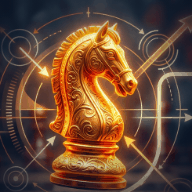
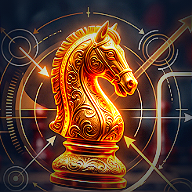
Version 0.2.107: App-Symbol knackiger
Warum: Auf dem Startbildschirm des Autors wirkte das goldene Springer-Symbol milchig. Mehr
Kontrast, etwas Sättigung (mehr kippte das Gold ins Orange-Rote) und leichte Schärfe, der
Rand fast deckend in Navy; die Symbole mit 180 und 192 Pixeln ohne Verkleinerung auf 256
Farben, weil deren Rauschen das Bild weich machte.

Claude-Session: https://claude.ai/code/session_01S7KSmSby2xS4HBeGXkrAmZ

diff --git a/docs/FORTSCHRITT.md b/docs/FORTSCHRITT.md
@@ -1,6 +1,6 @@
 # Fortschritt – Wiederaufsetzpunkt
 
-Stand: 19.10.2026 · **Version 0.2.106**, Farbabstimmung DS30 bis DS37 (Opus, Zweig `farbabstimmung`: Porträts ohne eingebauten Hintergrund, helles Navy im hellen Modus; Haken und Regler in App-Farben; Zahlkreise und Stufenmarken im Dunkeln mit Rand; Rahmen der Bedienelemente 3:1; App-Symbol aus dem goldenen Springer des Covers; vom Autor freigegeben; Nächstes: N483 bis N489); davor 0.2.105, kurze Partien zählen für die Wertung (Opus, Zweig `wertung-kurze-partien`: Die Elo-Wertung verlangt keine Schätzung des Gegners mehr, dessen Zahl seit 0.2.85 fest ist; seit 0.2.103 fielen schnelle Siege gegen Spaß-Bots sonst heraus; Nächstes: N584); davor 0.2.104, englische Fassung als Vorschau (Opus, Zweig `englisch`: en.json mit allen Texten außer 27 Buchzitaten, englische Notation überall, Zahlen und Daten nach der Sprache, Kürzel am Brett in der Sprachdatei, Buchdaten weiter deutsch; Nächstes: N409, Rückfragen EN1 bis EN3); davor 0.2.103, Spielstärke nur bis zur Entscheidung der Partie (Opus, Zweig `genauigkeit-bis-entscheidung`, Wunsch des Autors: Züge nach dem Punkt, ab dem eine Seite dauerhaft mindestens 90 % Gewinnchance hat, zählen nicht mehr für Spielstärke und Urteilswort; Kurven Genauigkeit → Spielstärke an 600 neu gesammelten Partien neu geeicht, Bot-Zahlen über die Anker um 212 tiefer, Bots selbst unverändert; Nächstes: N580 bis N583; GE1 vom Autor mit „so lassen“ entschieden); davor 0.2.102, Uhr beim Verlassen sofort gesichert (Opus, Zweig `uhr-sichern`, N180: angehaltener Uhrstand zusätzlich synchron im Gerätespeicher, weil ein Neuladen das Schreiben in IndexedDB abbricht; Nächstes: englische Fassung, Zweig `englisch`); davor 0.2.101, Symbolsprache DS19 bis DS29 (Opus, Zweig `symbolsprache`: Stufenmarken in Gürtelfarben, ein Aufklappzeichen, Pfeil für Weiter, Zeichen an Knöpfen und Überschriften, Ergebnismarke, Phasenzeichen, Fortschritt an der Kapitelnummer, Werkzeugzeichen, Glossar nach Buchstaben; vom Autor freigegeben; Nächstes: N475 bis N482); davor 0.2.100, Porträtwahl mit Vorschaubildern (Opus, Zweig `portraet-bildauswahl`: Aufklappmenü mit allen 30 Porträts nach Altersgruppen statt Auswahlmenü ohne Bilder; Nächstes: N469); davor 0.2.99, Wünsche des Autors vom 19.10.2026 morgens (Opus, Zweig `spielen-sammlung-nachschlagen`: Spielhilfen über „Partie beginnen“, Porträts für eigene Bots, Stern für besiegte Bots, Partienliste mit Porträt, Filter und Löschen, Zeichen für Warum-Fragen in der Kapitelübersicht mit Fortschritt, Nachschlagen mit Steckbriefen und Werkzeugen; Nächstes: N468 bis N474); davor 0.2.98, Design-Überprüfung (Opus, Zweig `design-ueberarbeitung`: alle 18 Vorschläge DS1 bis DS18 vom Autor angenommen, Schrift folgt dem Gerät, Querformat und Tablet mit Brett links, beschriftete Brettsymbole, Tippflächen 44 px; Nächstes: N450 bis N467); davor 0.2.97, Datenlauf mit dem Buchstand vom 17.10.2026 (`schachbuch-quellen` 931597a; Opus, Zweig `buchstand-neu`: an allen 765 Abbildungen Stellung, Pfeile, Felder, Unterschrift und Nummern unverändert; geändert nur die Literaturnummern in vier Glossareinträgen ([12]→[14], [10]→[11], [13]→[15], [14]→[16]), Zeilenangaben der Fundstellen und die Prüfsummen, die seit dem Nachtrag der Klartextzüge (0.2.94) nicht neu gerechnet waren; Nächstes: Rückmeldung des Autors); davor 0.2.96, konstruierte Zugfolgen und Tablebase (Opus, Zweig `zugfolgen-konstruiert`: 29 Partien ab der Grundstellung zu Abbildungen ohne Zugfolge, Status „konstruiert“ mit Hinweis in der App, Einordnung aller 67 in `inhalte/de/konstruktion.json`, Tablebase-Prüfung der Endspiele; Nächstes: Rückfragen ZF1 bis ZF4, Abb. 7.24 offen); davor 0.2.95, Befunde aus dem Durchprüfen der Aufgabenliste behoben: „Zurück zu den Aufgaben“ führt wieder zum Punkt, Pfeil und Figur bei Hinweis 2 und 3 im Endspieltrainer, „..“ nach „Warum?“, Uhranzeige nach dem Hintergrund, Einzahl, Abbildung beim Zug ausführen, kein Satz über Enginefehler bei Partien zu zweit (Opus, Zweig `aufgaben-zurueck`; Aufgabenliste entlastet auf Zweig `claude/aufgabenliste-entlasten-6y3tgp`); davor 0.2.94 Technik für die englische Fassung (Chat E, Opus, Zweig `sprache-technik`: Sprachwahl nach Gerät, `<html lang>`, Buchdaten je Sprache, Lizenztexte in de.json, Klartextzüge der Unterschriften in der Pipeline); davor 0.2.93 Lernsammlung (Chat E, Opus, Zweig `lernsammlung`: eigene Stellungen mit Plan und Notiz aus Abbildung, Partie und Trainer, nach Eröffnung geordnet, Abfrage, PGN für Lichess-Studien, Nutzerdaten Format 5); davor 0.2.92 Ziehen per Wischen (Chat E, Opus, Zweig `ziehen-wischen`: Figuren mit Finger oder Maus ziehen, nur auf ziehbaren Figuren, abschaltbar in den Einstellungen); davor 0.2.91 Endspiel-Kurzübungen (Quadrat, Opposition, Schlüsselfelder, Erkennungsbild-Quiz; `training/endspieldrills.ts`, `ui/trainer/Drillaufgabe.tsx`), Referenzergebnisse aller Werkzeuge (`src/analyse/__referenz__/werkzeuge.txt`), `speicher/partienLesen.ts` abgetrennt (Opus, Chat A, Zweig `nacht-stabilitaet`; Nächstes: Rückmeldung des Autors zu N400 bis N408 und NA1); davor 0.2.90 Nachtarbeit Chat A (Opus, Zweig `nacht-stabilitaet`: Engine-Tests mit fester Tiefe 16, axe auf Spielen/Partie/Auswertung/Trainern/Dunkelmodus, 360 px, `/training/*` ohne Zwischenspeicher; Uhr 10+0 im 30-Minuten-Plan; Gewinnchance im Zugurteil und in der Falle; Gabel mit Figurennamen; Sicherung teilen; Kontrast am Bewertungsbalken; „Erst selbst denken“ auch vor Werkzeugen (Einstellung, Voreinstellung aus, NA1); Wiederholung für Struktur und Endspiel; Trefferzahl bei Zug erraten und Planstand in den Nutzerdaten); davor 0.2.89 gleich große Kacheln in der Gegnerwahl (Opus, Zweig `kacheln-gleich`: Spalten minmax(0, 1fr), Namen brechen um; Nächstes wie bei 0.2.88); davor 0.2.88 Spaß-Bots und Zahlen über 2200 (Opus, Zweig `spass-bots`: Gruppe „Zum Spaß“ mit Fritzi, Onkel Willi, Tante Trude, Bruno, etwa 600 bis 1100, Zufallszüge 60/38/25/15 %; Stufe 5 bis 8 mit der Zahl der Elo-Leiter statt „über 2200“; Nächstes: N335 des Autors, dann S24 Namen der Stufen); davor 0.2.87 Rückmeldung zu 0.2.86 (Opus, Zweig `rueckmeldung-0.2.86`: „Genauigkeit wie“ nur in der Auswertung als Segmentleiste mit Fragezeichen, „App“ statt „Mittelweg“, Tabellen ohne Überlauf, Trainer-Knopf als Symbol, Holz und Material eine Gruppe; Nächstes: Rückmeldung zu N336 bis N346); davor 0.2.86, Auswertung, Werkzeuge und Training übersichtlicher (Opus, Zweig `auswertung-ausbau`: Gewinnchance statt Bauern im Rückblick, „schlägt nicht zurück“, Nebenzweige „Besser war“ und „So wird der Fehler bestraft“, Engine-Wachhund gegen hängende Auswertung, Symbole und Genauigkeitsschalter in der Auswertung, Werkzeugkarten ohne „Mehr“, Werkzeugleiste scrollbar mit Symbolen, Partie-beginnen oben, Bot-Stufen aufklappbar, Trainingsseite mit Symbolen; Nächstes: Rückmeldung des Autors zu N336 bis N343); davor 0.2.85, Elo-Zahl der Bots (Opus, Zweig `bot-elo`, S23: Elo-Leiter aus 806 Partien, verankert an Stufe 1 bis 3 gegen sich selbst über „Deine Spielstärke“, Anker ab 83 % Genauigkeit gesättigt; Bereich je Stufe, Zahl je Bot, „über 2200“ als Grenze, feste Gegnerwertung in der Elo-Wertung; Stufe 3 schwächer, weil sie Stufe 4 ebenbürtig war; Nächstes: Test N335 des Autors abwarten, dann S24 Stufen 1 bis 4 schwächer und alle Bots neu messen); davor 0.2.84 neue Bretter nach der Auswahl des Autors (Opus, Zweig `bretter`: Farben Braun, Blau, Sand, Koralle, Lavendel, Nacht; „Holz“ heißt jetzt „Ahorn & Nussbaum“; Materialbretter Intarsie, Holz klassisch, Marmor grün von Lichess unter AGPL; goldener Rahmen der gewählten Kachel im Dunkelmodus; Nächstes: S23 Elo je Bot-Stufe nach Rücksprache mit dem anderen Chat); davor 0.2.83 Genauigkeit und Spielstärke neu geeicht und eingebaut (Opus, Zweig `eichung`: je 300 Partien von chess.com und Lichess mit Tiefe 18 nachgerechnet; Schalter „Genauigkeit wie“ Lichess/Mittelweg/nahe chess.com, Spielstärke als Mitte zweier Kurven mit Spanne, Karte „Deine Spielstärke“ über zehn Partien, Auswertung mit Tiefe 18; Nächstes: S23 Elo je Bot-Stufe, sobald die Bot-Messung Züge speichert); davor 0.2.82 Rückmeldung zu 0.2.80 (blinde Flecken bei eigener Stufe, Abschnitte eingeklappt mit Pfeil, Reiter nur waagerecht, Engine als Symbol am Brett) und neun neue Figurensätze aus der Auswahl des Autors (Opus, Zweig `layout-nachtrag`; Nächstes: Eichung Punkt 6, Bericht zu Schritt c an den Autor); davor 0.2.81 alle 64 Bots mit korrigiertem Stil gemessen und eingestellt (Opus, Zweig `werkzeuge-textarbeit`: Regeln gegen endloses Nachjustieren, zwei Stichproben je Grenzfall, höchstens eine Anpassung je Bot, ab Stufe 5 Vergleich mit der Stufe darunter; elf Bots gegenüber 0.2.67 geändert, Ergebnis in ENTSCHEIDUNGEN „Messung aller 64 Bots“; Saat-Verschiebung `MESSUNG_SAAT_AB` für zweite Stichproben); davor 0.2.80 Layout nach dem Wunsch des Autors: Einstellungen mit Reitern, Vorschau, Ringen und Erklärungen hinter Fragezeichen; Kapitelseiten mit „Training und Übungen“ in einer Karte, Abhaken über der Galerie und aufklappbaren Abschnitten; Spielen mit drei Gegnerkategorien und Engine-Knopf in der Partie statt der Hinweise; absichtliche Fehler nur für die eigene Stufe (S22) (Opus, Zweig `layout-einstellungen`; Nächstes: Eichung Punkt 6 weiter); davor 0.2.79 Plan „Genauigkeit und Spielstärke neu eichen“ festgehalten (Opus, Nächster Schritt Punkt 6); davor 0.2.78 Stil-Fehler behoben: Der Stil wählte nahe am besten Zug der Engine statt am Zug der Stufe, Bots mit Stil waren dadurch in den Stufen 1 bis 4 fast so stark wie die Engine; jetzt Bezug auf den Zug der Stufe, Anpassungen gegen „zu stark“ aus 0.2.74 bis 0.2.76 zurückgenommen (Opus, Zweig `werkzeuge-textarbeit`; Nächstes: 53 Bots mit korrigiertem Stil neu messen, Liste in `buch/arbeit` bzw. ENTSCHEIDUNGEN „Messung aller 64 Bots“, Ausreißer anpassen); davor 0.2.77 Messfehler behoben: Paarungen wurden am ersten Bindestrich getrennt, 25 Bots mit Bindestrich waren falsch gemessen; Frau Berger und Frau Ortega zurückgenommen, Yara mit Fleck „ruhig“ (Opus, Zweig `werkzeuge-textarbeit`; Nächstes: die 25 Bots neu messen, Ergebnis in ENTSCHEIDUNGEN „Ergebnis der Messung aller 64 Bots“ nachtragen, Ausreißer anpassen); davor 0.2.76 Bot-Messung Stufen 1 bis 6: Greta, Paul, Hanna und Elif nachgebessert, Leon, Ayşe und Sophie bleiben als Stärkste ihrer Stufe (verlieren gegen die nächsthöhere; benachbarte reine Stufen trennen 10 : 0) (Opus, Zweig `werkzeuge-textarbeit`; Nächstes: Matteo, Ben und die Stufen 7 und 8 messen, Ergebnis in ENTSCHEIDUNGEN „Ergebnis der Messung aller 64 Bots“ nachtragen, Ausreißer anpassen); davor 0.2.75 Aufgabenseite in der App (Opus, Zweig `autor-aufgaben`: `docs/AUFGABEN_AUTOR.md` als Seite nach drei Sekunden Druck aufs Zahnrad, Links, Haken, Notizen, Text für den Chat); davor 0.2.74 Messung aller 64 Bots, Stufen 1 bis 5 vollständig: zwölf zu starke und vier zu schwache Bots über Phasenstufe und teure Fehlerart angepasst (Fable, Zweig `werkzeuge-textarbeit`; Stufen 6 bis 8 laufen noch, Nächstes: deren Ergebnis auswerten und in ENTSCHEIDUNGEN nachtragen); davor 0.2.73 Lichess-Aufgaben im Training geprüft (angeschlossen), Lizenzen ergänzt, X5 nach Regel 9 (Opus, Zweig `lichess-lizenzen`); davor 0.2.72 Spielbewertung an sieben chess.com-Partien des Autors geeicht (Fable, Zweig `werkzeuge-textarbeit`: neue Stützstellen Genauigkeit → Spielstärke, etwa 500 Punkte tiefer, Abweichung zu chess.com im Mittel 0; Urteilswort je Phase als farbige Marke; Mittelspiel nach Taktik und Strategie getrennt, Regel des Sicherheitsblicks; Messlauf `messen:vergleich`); davor 0.2.71 30-Minuten-Plan (Opus, Zweig `dreissig-minuten`, AP 13 Stufe 3: geführte Einheit mit Uhr, Tag A und B im Wechsel, Bereiche des Studientags; damit alle Trainer spielbar); davor 0.2.70 Abweichungsmodus (Opus, Zweig `abweichung`, AP 13 Stufe 3: die Engine verlässt das Buch, der Leser antwortet, Bewertung und Einschätzung); davor 0.2.69 Planbilanz-Übung (Opus, Zweig `planbilanz`, AP 13 Stufe 3: Planfragen mit Antwortauswahl, LAP, Wettrennen); davor 0.2.68 Werkzeugabweichungen aus der Textarbeit geprüft (Fable, Zweig `werkzeuge-textarbeit`: neun von zwölf Gruppen waren erledigt, Isolani-Besitzer in der Richtung und Sonderfall 6. Reihe aus Verteidigersicht umgesetzt, Zeit-Zählhilfe als Buchbefund B6); davor 0.2.67 64 Gegner mit Porträts (Fable, Zweig `bots-galerie`: acht Bots je Stufe mit Stil, Fehlerliste und blinden Flecken, Porträts aus DiceBear „Personas“, Gegnerwahl als Porträtgitter mit Sprechblase, Messung je Bot); davor 0.2.66 Denkroutine-Trainer (Opus, Zweig `denkroutine`, AP 13 Stufe 3: eine Minute, zwei Kandidaten mit stärkster Antwort, Vergleich mit der Engine); davor 0.2.65 Fehlerdatenbank (Opus, Zweig `fehlerdatenbank`, AP 13 Stufe 3: Einträge mit Stellung, Satz und Fehlerart der Gesamt-Checkliste, Auswertung je Woche, Trainer-Vorschlag, Knopf im Rückblick; Nutzerdaten Format 4); davor 0.2.64 Leerfälle der Werkzeugkarten (Opus, Zweig `leerfaelle`, U12: ein Satz statt leerer Befunde, kein doppelter Satz; Schicht `ui/werkzeuge/leerfall.ts`); davor 0.2.63 Datenschutz: E-Mail-Weiterleitung an goneo (Opus); davor 0.2.62 Impressum und Datenschutz mit den Angaben des Autors (E1, E2 erledigt); davor 0.2.61 Rückmeldung des Autors zu 0.2.56 (Opus, Zweig `rueckmeldung-0.2.56`: S9 gewertete Partie ohne Rücknahme und Spielhilfen, S12 nur Stellungen mit möglichen Umwandlungen (Stockfish beendet sich sonst), S13 Stil-Toleranz 0,3 mit Hinweis, S17 Phase der Buchstellungen nach dem Glossar mit „rochiert haben“ aus den Buchzügen, U5 Sonderzüge an Abb. 0.12 bis 0.19, W5 Strukturerkenner mit starken Feldern zuerst, W9 Urteil der Faktorenbilanz des Buches, W10 Warum-Fragen im Repertoire-Trainer, W12 Engine-Vergleich beim Zugerraten; X, S, R, W und U bis auf X5 und U12 erledigt; Befund D2 Glossar gegen Steckbriefe); davor 0.2.60 Abhakliste der Fehlerarten (Fable, Zweig `fehlerarten-abhakliste`, Rest aus S7: Karte „Absichtliche Fehler der Engine“ in den Einstellungen, Vorliebe `erlaubteFehlerarten`, Schnitt mit der Liste der vorgefertigten Gegner beim Anlegen einer Partie); davor 0.2.59 Brillant zweiter Schritt (Fable, Zweig `brillant-annehmbar`: Opfer nur, wenn der Gegner die Figur legal nehmen kann; gezogene Figur zählt auch schon angegriffen; Opfererkennung in `engine/opfer.ts`; Prüfstand 59 von 100 bei 19 Fehlalarmen); davor 0.2.58 Anmerkungen des Autors vom Abend (Fable, Zweig `oberflaeche-toene`: Töne für Schach, Matt, Remis und Warnung; roter Hinweis und Satz bei gesperrter Figur; Schlagring statt Punkt; Figurensatz „Holz“ jetzt Merida; Stern für gewertete Partien); davor 0.2.57 blinde Flecken vollständig (Fable, Zweig `blinde-flecken-2`: Röntgen, Zwischenzug, Grundreihe; Blindheit auch gegenüber gegnerischen Zügen dieser Art; Messung mit allen Flecken); davor 0.2.56 Engine-Variante im Rückblick (Fable, Zweig `rueckblick-variante`, Empfehlung R5: Hauptvariante je Stellung gespeichert, Rückblickkarte „Danach etwa …“); davor 0.2.55 Nachlesen im Buch zu allen Rückfragen (Opus: X1 9.23/9.41, X2 9.42, X4, C1, C2, C5, T1, U6, W6/T5, W11, E3 umgesetzt; S17, C3, W5, U5, D1 beim Autor); davor 0.2.54 Brillant am Prüfstand von chess.com (Fable, Zweig `opfer-pruefstand`: Opfer ab Netto 1, nur die gezogene Figur darf vorher schon angegriffen sein, brillant nur bei gutem Stand danach, nicht aus dem Schach, zweitbester nicht ohnehin gewinnend; 100 Brillant-Züge aus chess.com-Partien als lokaler Prüfstand); davor 0.2.53 Studien lösen und Zug erraten (Opus, AP 13 Stufe 3: Zugfolgen aus Kapitel 10 und 11, Rückfragen W11, W12); davor 0.2.52 Stufen 1 bis 3 menschlicher (Fable, Zweig `stufen-menschlich`, Empfehlung R4: Tiefengrenze statt Skill Level 0, gewichtete Zugwahl mit Temperatur, Fehlerneigung nach Lage, Strähne und Tagesform; Stufen neu gemessen); davor 0.2.51 Vergleich mit chess.com an drei Partien (Fable: Abtausch ist kein Opfer mehr, „stark“ nur vor klarem Gewinn, S18 Spielstärke aus der Genauigkeit, T4 Fallen aus Kapitel 2 und 3, in entschiedener Stellung „?!“ erst ab drei Bauern und kein „!“, 2 s Rechenzeit während der Partie; neue Regel 9 in CLAUDE.md: Empfehlungen gleich umsetzen); davor 0.2.50 Genauigkeit wie bei chess.com (Fable, Zweig `auswertung-chesscom`: Genauigkeit wie bei Lichess aus gewichtetem und harmonischem Mittel, „verpasst“ vor „patzer“, „bester“ nur der Zug der Engine, Platzhalter in der Zeile „Zeichen“ behoben; Rechentiefe war nicht die Ursache); davor 0.2.49 Endspieltrainer (Fable, Zweig `endspieltrainer`: 78 Buchstellungen aus Kapitel 8 und 9 mit Stockfish geprüft, gegen die Engine gewinnen oder Remis halten, Kippen erkannt, gestufte Hilfen); davor 0.2.48 Zielbilanz-Übung, Faktorenbilanz- und Repertoire-Trainer (Opus, AP 13, Buchstellungen und Zugfolgen der Kapitel 2 und 3, Lösung aus den Werkzeugen und dem Buch); davor 0.2.47 Empfehlungen vorab umgesetzt (Opus: S9 Rücknahme ungewertet, K5 kein „??“ bei klarem Gewinn, R3 „Geschätzte Spielstärke“, C8 kein Minderheitsangriff gegen vorgerückten Kandidaten, T1 gleich gute Engine-Züge in vier Übungen, U9 Wiederholung für Taktik und Falle; Widerspruch des Autors genügt); davor 0.2.46 Bots mit Persönlichkeit (Fable: blinde Flecken als Zugarten, die ein Gegner nicht sieht; 18 vorgefertigte Gegner mit eigener Fehlerliste und blinden Flecken; Stufen je Phase verborgen; blinde Flecken auch für eigene Gegner); davor 0.2.45 AP 13 Teil 3 (Opus): Taktiktrainer, „Falle oder Köder“ und Strukturerkenner auf Fables Trainerdaten, Hinweis „Nur dieser Zug“ bei Übungen, Empfehlungen zu allen offenen Rückfragen in `docs/AUFGABEN_AUTOR.md`; davor Lesart der Phase: Mittelspiel, sobald eine Seite entwickelt ist oder das Material ungleich ist; „Bauern entscheiden“ nur bei Freibauer oder wenig Material; Erklärung am Phasenwechsel im Rückblick (Befund S17: Abb. 11.4); davor 0.2.43 „M“ und „E“ in der Zugliste, Zusatzregel „Zug 15“ gestrichen; davor 0.2.42 Ergänzungen des Autors vom Abend (Fable: Wertung nur aus der Grundstellung, Wertung zurücksetzen, eigene Gegner mit Fehlerarten und Spielstil, Wertungskurve je Phase); davor 0.2.41 Spielen nach den Wünschen des Autors vom Nachmittag (Fable: zwölf vorgefertigte Gegner, Mensch gegen Mensch, Spielhilfen zuschaltbar, Partienkachel mit Ergebnis und Stärke beider Seiten, Wertung nach Elo mit Kurve in den Einstellungen, Zusatzregeln für die Phase, Stellungseditor); davor 0.2.40 Spielen nach den Ideen des Autors (Fable: Zugklassen wie bei chess.com, Phasen in Kurve und Spielstärke, Auswertung im Hintergrund, Stufe je Phase, Fehlerprofile je Phase); davor 0.2.39 Rückmeldung zum Nachtest bis N174 (Fable, Zweig `rueckmeldung-0.2.39`: Figurensätze, Nummernsprung, Werkzeugtexte, Rückblick-Karte mit Erklärung, „!“, Spielstärke, Eröffnung wählen) und die Trainerdaten (Fable, Zweig `trainerdaten`, zusammengeführt); davor 0.2.38 H Rückblick nach der Partie (Zweig `rueckblick`); 0.2.37 AP 13 Teil 1 und 2: Übungen des Buches lösen, Wiederholung, erste Trainer (Opus, Zweig `nacht-ap13`; davor 0.2.36 AP 11 Kalibrierung (Fable), 0.2.35 neuer Buchstand, 0.2.34 erster Stand im öffentlichen Repository `dobili/SvGa_Public`) · Nächstes: Nachtest N182 bis N200, Rückfragen U1 bis U11 in `docs/AUFGABEN_AUTOR.md`; Trainerdaten von Fable zusammenführen · Die ganze ältere Arbeitsgeschichte (Prüfhilfen, Berichte, Archiv) liegt im früheren privaten Repository des Autors
+Stand: 19.10.2026 · **Version 0.2.107**, App-Symbol knackiger (Opus, Zweig `symbol-knackig`: mehr Kontrast, etwas Sättigung und Schärfe, dunklerer Rand, 180 und 192 Pixel in voller Farbtiefe; Nächstes: N490); davor 0.2.106, Farbabstimmung DS30 bis DS37 (Opus, Zweig `farbabstimmung`: Porträts ohne eingebauten Hintergrund, helles Navy im hellen Modus; Haken und Regler in App-Farben; Zahlkreise und Stufenmarken im Dunkeln mit Rand; Rahmen der Bedienelemente 3:1; App-Symbol aus dem goldenen Springer des Covers; vom Autor freigegeben; Nächstes: N483 bis N489); davor 0.2.105, kurze Partien zählen für die Wertung (Opus, Zweig `wertung-kurze-partien`: Die Elo-Wertung verlangt keine Schätzung des Gegners mehr, dessen Zahl seit 0.2.85 fest ist; seit 0.2.103 fielen schnelle Siege gegen Spaß-Bots sonst heraus; Nächstes: N584); davor 0.2.104, englische Fassung als Vorschau (Opus, Zweig `englisch`: en.json mit allen Texten außer 27 Buchzitaten, englische Notation überall, Zahlen und Daten nach der Sprache, Kürzel am Brett in der Sprachdatei, Buchdaten weiter deutsch; Nächstes: N409, Rückfragen EN1 bis EN3); davor 0.2.103, Spielstärke nur bis zur Entscheidung der Partie (Opus, Zweig `genauigkeit-bis-entscheidung`, Wunsch des Autors: Züge nach dem Punkt, ab dem eine Seite dauerhaft mindestens 90 % Gewinnchance hat, zählen nicht mehr für Spielstärke und Urteilswort; Kurven Genauigkeit → Spielstärke an 600 neu gesammelten Partien neu geeicht, Bot-Zahlen über die Anker um 212 tiefer, Bots selbst unverändert; Nächstes: N580 bis N583; GE1 vom Autor mit „so lassen“ entschieden); davor 0.2.102, Uhr beim Verlassen sofort gesichert (Opus, Zweig `uhr-sichern`, N180: angehaltener Uhrstand zusätzlich synchron im Gerätespeicher, weil ein Neuladen das Schreiben in IndexedDB abbricht; Nächstes: englische Fassung, Zweig `englisch`); davor 0.2.101, Symbolsprache DS19 bis DS29 (Opus, Zweig `symbolsprache`: Stufenmarken in Gürtelfarben, ein Aufklappzeichen, Pfeil für Weiter, Zeichen an Knöpfen und Überschriften, Ergebnismarke, Phasenzeichen, Fortschritt an der Kapitelnummer, Werkzeugzeichen, Glossar nach Buchstaben; vom Autor freigegeben; Nächstes: N475 bis N482); davor 0.2.100, Porträtwahl mit Vorschaubildern (Opus, Zweig `portraet-bildauswahl`: Aufklappmenü mit allen 30 Porträts nach Altersgruppen statt Auswahlmenü ohne Bilder; Nächstes: N469); davor 0.2.99, Wünsche des Autors vom 19.10.2026 morgens (Opus, Zweig `spielen-sammlung-nachschlagen`: Spielhilfen über „Partie beginnen“, Porträts für eigene Bots, Stern für besiegte Bots, Partienliste mit Porträt, Filter und Löschen, Zeichen für Warum-Fragen in der Kapitelübersicht mit Fortschritt, Nachschlagen mit Steckbriefen und Werkzeugen; Nächstes: N468 bis N474); davor 0.2.98, Design-Überprüfung (Opus, Zweig `design-ueberarbeitung`: alle 18 Vorschläge DS1 bis DS18 vom Autor angenommen, Schrift folgt dem Gerät, Querformat und Tablet mit Brett links, beschriftete Brettsymbole, Tippflächen 44 px; Nächstes: N450 bis N467); davor 0.2.97, Datenlauf mit dem Buchstand vom 17.10.2026 (`schachbuch-quellen` 931597a; Opus, Zweig `buchstand-neu`: an allen 765 Abbildungen Stellung, Pfeile, Felder, Unterschrift und Nummern unverändert; geändert nur die Literaturnummern in vier Glossareinträgen ([12]→[14], [10]→[11], [13]→[15], [14]→[16]), Zeilenangaben der Fundstellen und die Prüfsummen, die seit dem Nachtrag der Klartextzüge (0.2.94) nicht neu gerechnet waren; Nächstes: Rückmeldung des Autors); davor 0.2.96, konstruierte Zugfolgen und Tablebase (Opus, Zweig `zugfolgen-konstruiert`: 29 Partien ab der Grundstellung zu Abbildungen ohne Zugfolge, Status „konstruiert“ mit Hinweis in der App, Einordnung aller 67 in `inhalte/de/konstruktion.json`, Tablebase-Prüfung der Endspiele; Nächstes: Rückfragen ZF1 bis ZF4, Abb. 7.24 offen); davor 0.2.95, Befunde aus dem Durchprüfen der Aufgabenliste behoben: „Zurück zu den Aufgaben“ führt wieder zum Punkt, Pfeil und Figur bei Hinweis 2 und 3 im Endspieltrainer, „..“ nach „Warum?“, Uhranzeige nach dem Hintergrund, Einzahl, Abbildung beim Zug ausführen, kein Satz über Enginefehler bei Partien zu zweit (Opus, Zweig `aufgaben-zurueck`; Aufgabenliste entlastet auf Zweig `claude/aufgabenliste-entlasten-6y3tgp`); davor 0.2.94 Technik für die englische Fassung (Chat E, Opus, Zweig `sprache-technik`: Sprachwahl nach Gerät, `<html lang>`, Buchdaten je Sprache, Lizenztexte in de.json, Klartextzüge der Unterschriften in der Pipeline); davor 0.2.93 Lernsammlung (Chat E, Opus, Zweig `lernsammlung`: eigene Stellungen mit Plan und Notiz aus Abbildung, Partie und Trainer, nach Eröffnung geordnet, Abfrage, PGN für Lichess-Studien, Nutzerdaten Format 5); davor 0.2.92 Ziehen per Wischen (Chat E, Opus, Zweig `ziehen-wischen`: Figuren mit Finger oder Maus ziehen, nur auf ziehbaren Figuren, abschaltbar in den Einstellungen); davor 0.2.91 Endspiel-Kurzübungen (Quadrat, Opposition, Schlüsselfelder, Erkennungsbild-Quiz; `training/endspieldrills.ts`, `ui/trainer/Drillaufgabe.tsx`), Referenzergebnisse aller Werkzeuge (`src/analyse/__referenz__/werkzeuge.txt`), `speicher/partienLesen.ts` abgetrennt (Opus, Chat A, Zweig `nacht-stabilitaet`; Nächstes: Rückmeldung des Autors zu N400 bis N408 und NA1); davor 0.2.90 Nachtarbeit Chat A (Opus, Zweig `nacht-stabilitaet`: Engine-Tests mit fester Tiefe 16, axe auf Spielen/Partie/Auswertung/Trainern/Dunkelmodus, 360 px, `/training/*` ohne Zwischenspeicher; Uhr 10+0 im 30-Minuten-Plan; Gewinnchance im Zugurteil und in der Falle; Gabel mit Figurennamen; Sicherung teilen; Kontrast am Bewertungsbalken; „Erst selbst denken“ auch vor Werkzeugen (Einstellung, Voreinstellung aus, NA1); Wiederholung für Struktur und Endspiel; Trefferzahl bei Zug erraten und Planstand in den Nutzerdaten); davor 0.2.89 gleich große Kacheln in der Gegnerwahl (Opus, Zweig `kacheln-gleich`: Spalten minmax(0, 1fr), Namen brechen um; Nächstes wie bei 0.2.88); davor 0.2.88 Spaß-Bots und Zahlen über 2200 (Opus, Zweig `spass-bots`: Gruppe „Zum Spaß“ mit Fritzi, Onkel Willi, Tante Trude, Bruno, etwa 600 bis 1100, Zufallszüge 60/38/25/15 %; Stufe 5 bis 8 mit der Zahl der Elo-Leiter statt „über 2200“; Nächstes: N335 des Autors, dann S24 Namen der Stufen); davor 0.2.87 Rückmeldung zu 0.2.86 (Opus, Zweig `rueckmeldung-0.2.86`: „Genauigkeit wie“ nur in der Auswertung als Segmentleiste mit Fragezeichen, „App“ statt „Mittelweg“, Tabellen ohne Überlauf, Trainer-Knopf als Symbol, Holz und Material eine Gruppe; Nächstes: Rückmeldung zu N336 bis N346); davor 0.2.86, Auswertung, Werkzeuge und Training übersichtlicher (Opus, Zweig `auswertung-ausbau`: Gewinnchance statt Bauern im Rückblick, „schlägt nicht zurück“, Nebenzweige „Besser war“ und „So wird der Fehler bestraft“, Engine-Wachhund gegen hängende Auswertung, Symbole und Genauigkeitsschalter in der Auswertung, Werkzeugkarten ohne „Mehr“, Werkzeugleiste scrollbar mit Symbolen, Partie-beginnen oben, Bot-Stufen aufklappbar, Trainingsseite mit Symbolen; Nächstes: Rückmeldung des Autors zu N336 bis N343); davor 0.2.85, Elo-Zahl der Bots (Opus, Zweig `bot-elo`, S23: Elo-Leiter aus 806 Partien, verankert an Stufe 1 bis 3 gegen sich selbst über „Deine Spielstärke“, Anker ab 83 % Genauigkeit gesättigt; Bereich je Stufe, Zahl je Bot, „über 2200“ als Grenze, feste Gegnerwertung in der Elo-Wertung; Stufe 3 schwächer, weil sie Stufe 4 ebenbürtig war; Nächstes: Test N335 des Autors abwarten, dann S24 Stufen 1 bis 4 schwächer und alle Bots neu messen); davor 0.2.84 neue Bretter nach der Auswahl des Autors (Opus, Zweig `bretter`: Farben Braun, Blau, Sand, Koralle, Lavendel, Nacht; „Holz“ heißt jetzt „Ahorn & Nussbaum“; Materialbretter Intarsie, Holz klassisch, Marmor grün von Lichess unter AGPL; goldener Rahmen der gewählten Kachel im Dunkelmodus; Nächstes: S23 Elo je Bot-Stufe nach Rücksprache mit dem anderen Chat); davor 0.2.83 Genauigkeit und Spielstärke neu geeicht und eingebaut (Opus, Zweig `eichung`: je 300 Partien von chess.com und Lichess mit Tiefe 18 nachgerechnet; Schalter „Genauigkeit wie“ Lichess/Mittelweg/nahe chess.com, Spielstärke als Mitte zweier Kurven mit Spanne, Karte „Deine Spielstärke“ über zehn Partien, Auswertung mit Tiefe 18; Nächstes: S23 Elo je Bot-Stufe, sobald die Bot-Messung Züge speichert); davor 0.2.82 Rückmeldung zu 0.2.80 (blinde Flecken bei eigener Stufe, Abschnitte eingeklappt mit Pfeil, Reiter nur waagerecht, Engine als Symbol am Brett) und neun neue Figurensätze aus der Auswahl des Autors (Opus, Zweig `layout-nachtrag`; Nächstes: Eichung Punkt 6, Bericht zu Schritt c an den Autor); davor 0.2.81 alle 64 Bots mit korrigiertem Stil gemessen und eingestellt (Opus, Zweig `werkzeuge-textarbeit`: Regeln gegen endloses Nachjustieren, zwei Stichproben je Grenzfall, höchstens eine Anpassung je Bot, ab Stufe 5 Vergleich mit der Stufe darunter; elf Bots gegenüber 0.2.67 geändert, Ergebnis in ENTSCHEIDUNGEN „Messung aller 64 Bots“; Saat-Verschiebung `MESSUNG_SAAT_AB` für zweite Stichproben); davor 0.2.80 Layout nach dem Wunsch des Autors: Einstellungen mit Reitern, Vorschau, Ringen und Erklärungen hinter Fragezeichen; Kapitelseiten mit „Training und Übungen“ in einer Karte, Abhaken über der Galerie und aufklappbaren Abschnitten; Spielen mit drei Gegnerkategorien und Engine-Knopf in der Partie statt der Hinweise; absichtliche Fehler nur für die eigene Stufe (S22) (Opus, Zweig `layout-einstellungen`; Nächstes: Eichung Punkt 6 weiter); davor 0.2.79 Plan „Genauigkeit und Spielstärke neu eichen“ festgehalten (Opus, Nächster Schritt Punkt 6); davor 0.2.78 Stil-Fehler behoben: Der Stil wählte nahe am besten Zug der Engine statt am Zug der Stufe, Bots mit Stil waren dadurch in den Stufen 1 bis 4 fast so stark wie die Engine; jetzt Bezug auf den Zug der Stufe, Anpassungen gegen „zu stark“ aus 0.2.74 bis 0.2.76 zurückgenommen (Opus, Zweig `werkzeuge-textarbeit`; Nächstes: 53 Bots mit korrigiertem Stil neu messen, Liste in `buch/arbeit` bzw. ENTSCHEIDUNGEN „Messung aller 64 Bots“, Ausreißer anpassen); davor 0.2.77 Messfehler behoben: Paarungen wurden am ersten Bindestrich getrennt, 25 Bots mit Bindestrich waren falsch gemessen; Frau Berger und Frau Ortega zurückgenommen, Yara mit Fleck „ruhig“ (Opus, Zweig `werkzeuge-textarbeit`; Nächstes: die 25 Bots neu messen, Ergebnis in ENTSCHEIDUNGEN „Ergebnis der Messung aller 64 Bots“ nachtragen, Ausreißer anpassen); davor 0.2.76 Bot-Messung Stufen 1 bis 6: Greta, Paul, Hanna und Elif nachgebessert, Leon, Ayşe und Sophie bleiben als Stärkste ihrer Stufe (verlieren gegen die nächsthöhere; benachbarte reine Stufen trennen 10 : 0) (Opus, Zweig `werkzeuge-textarbeit`; Nächstes: Matteo, Ben und die Stufen 7 und 8 messen, Ergebnis in ENTSCHEIDUNGEN „Ergebnis der Messung aller 64 Bots“ nachtragen, Ausreißer anpassen); davor 0.2.75 Aufgabenseite in der App (Opus, Zweig `autor-aufgaben`: `docs/AUFGABEN_AUTOR.md` als Seite nach drei Sekunden Druck aufs Zahnrad, Links, Haken, Notizen, Text für den Chat); davor 0.2.74 Messung aller 64 Bots, Stufen 1 bis 5 vollständig: zwölf zu starke und vier zu schwache Bots über Phasenstufe und teure Fehlerart angepasst (Fable, Zweig `werkzeuge-textarbeit`; Stufen 6 bis 8 laufen noch, Nächstes: deren Ergebnis auswerten und in ENTSCHEIDUNGEN nachtragen); davor 0.2.73 Lichess-Aufgaben im Training geprüft (angeschlossen), Lizenzen ergänzt, X5 nach Regel 9 (Opus, Zweig `lichess-lizenzen`); davor 0.2.72 Spielbewertung an sieben chess.com-Partien des Autors geeicht (Fable, Zweig `werkzeuge-textarbeit`: neue Stützstellen Genauigkeit → Spielstärke, etwa 500 Punkte tiefer, Abweichung zu chess.com im Mittel 0; Urteilswort je Phase als farbige Marke; Mittelspiel nach Taktik und Strategie getrennt, Regel des Sicherheitsblicks; Messlauf `messen:vergleich`); davor 0.2.71 30-Minuten-Plan (Opus, Zweig `dreissig-minuten`, AP 13 Stufe 3: geführte Einheit mit Uhr, Tag A und B im Wechsel, Bereiche des Studientags; damit alle Trainer spielbar); davor 0.2.70 Abweichungsmodus (Opus, Zweig `abweichung`, AP 13 Stufe 3: die Engine verlässt das Buch, der Leser antwortet, Bewertung und Einschätzung); davor 0.2.69 Planbilanz-Übung (Opus, Zweig `planbilanz`, AP 13 Stufe 3: Planfragen mit Antwortauswahl, LAP, Wettrennen); davor 0.2.68 Werkzeugabweichungen aus der Textarbeit geprüft (Fable, Zweig `werkzeuge-textarbeit`: neun von zwölf Gruppen waren erledigt, Isolani-Besitzer in der Richtung und Sonderfall 6. Reihe aus Verteidigersicht umgesetzt, Zeit-Zählhilfe als Buchbefund B6); davor 0.2.67 64 Gegner mit Porträts (Fable, Zweig `bots-galerie`: acht Bots je Stufe mit Stil, Fehlerliste und blinden Flecken, Porträts aus DiceBear „Personas“, Gegnerwahl als Porträtgitter mit Sprechblase, Messung je Bot); davor 0.2.66 Denkroutine-Trainer (Opus, Zweig `denkroutine`, AP 13 Stufe 3: eine Minute, zwei Kandidaten mit stärkster Antwort, Vergleich mit der Engine); davor 0.2.65 Fehlerdatenbank (Opus, Zweig `fehlerdatenbank`, AP 13 Stufe 3: Einträge mit Stellung, Satz und Fehlerart der Gesamt-Checkliste, Auswertung je Woche, Trainer-Vorschlag, Knopf im Rückblick; Nutzerdaten Format 4); davor 0.2.64 Leerfälle der Werkzeugkarten (Opus, Zweig `leerfaelle`, U12: ein Satz statt leerer Befunde, kein doppelter Satz; Schicht `ui/werkzeuge/leerfall.ts`); davor 0.2.63 Datenschutz: E-Mail-Weiterleitung an goneo (Opus); davor 0.2.62 Impressum und Datenschutz mit den Angaben des Autors (E1, E2 erledigt); davor 0.2.61 Rückmeldung des Autors zu 0.2.56 (Opus, Zweig `rueckmeldung-0.2.56`: S9 gewertete Partie ohne Rücknahme und Spielhilfen, S12 nur Stellungen mit möglichen Umwandlungen (Stockfish beendet sich sonst), S13 Stil-Toleranz 0,3 mit Hinweis, S17 Phase der Buchstellungen nach dem Glossar mit „rochiert haben“ aus den Buchzügen, U5 Sonderzüge an Abb. 0.12 bis 0.19, W5 Strukturerkenner mit starken Feldern zuerst, W9 Urteil der Faktorenbilanz des Buches, W10 Warum-Fragen im Repertoire-Trainer, W12 Engine-Vergleich beim Zugerraten; X, S, R, W und U bis auf X5 und U12 erledigt; Befund D2 Glossar gegen Steckbriefe); davor 0.2.60 Abhakliste der Fehlerarten (Fable, Zweig `fehlerarten-abhakliste`, Rest aus S7: Karte „Absichtliche Fehler der Engine“ in den Einstellungen, Vorliebe `erlaubteFehlerarten`, Schnitt mit der Liste der vorgefertigten Gegner beim Anlegen einer Partie); davor 0.2.59 Brillant zweiter Schritt (Fable, Zweig `brillant-annehmbar`: Opfer nur, wenn der Gegner die Figur legal nehmen kann; gezogene Figur zählt auch schon angegriffen; Opfererkennung in `engine/opfer.ts`; Prüfstand 59 von 100 bei 19 Fehlalarmen); davor 0.2.58 Anmerkungen des Autors vom Abend (Fable, Zweig `oberflaeche-toene`: Töne für Schach, Matt, Remis und Warnung; roter Hinweis und Satz bei gesperrter Figur; Schlagring statt Punkt; Figurensatz „Holz“ jetzt Merida; Stern für gewertete Partien); davor 0.2.57 blinde Flecken vollständig (Fable, Zweig `blinde-flecken-2`: Röntgen, Zwischenzug, Grundreihe; Blindheit auch gegenüber gegnerischen Zügen dieser Art; Messung mit allen Flecken); davor 0.2.56 Engine-Variante im Rückblick (Fable, Zweig `rueckblick-variante`, Empfehlung R5: Hauptvariante je Stellung gespeichert, Rückblickkarte „Danach etwa …“); davor 0.2.55 Nachlesen im Buch zu allen Rückfragen (Opus: X1 9.23/9.41, X2 9.42, X4, C1, C2, C5, T1, U6, W6/T5, W11, E3 umgesetzt; S17, C3, W5, U5, D1 beim Autor); davor 0.2.54 Brillant am Prüfstand von chess.com (Fable, Zweig `opfer-pruefstand`: Opfer ab Netto 1, nur die gezogene Figur darf vorher schon angegriffen sein, brillant nur bei gutem Stand danach, nicht aus dem Schach, zweitbester nicht ohnehin gewinnend; 100 Brillant-Züge aus chess.com-Partien als lokaler Prüfstand); davor 0.2.53 Studien lösen und Zug erraten (Opus, AP 13 Stufe 3: Zugfolgen aus Kapitel 10 und 11, Rückfragen W11, W12); davor 0.2.52 Stufen 1 bis 3 menschlicher (Fable, Zweig `stufen-menschlich`, Empfehlung R4: Tiefengrenze statt Skill Level 0, gewichtete Zugwahl mit Temperatur, Fehlerneigung nach Lage, Strähne und Tagesform; Stufen neu gemessen); davor 0.2.51 Vergleich mit chess.com an drei Partien (Fable: Abtausch ist kein Opfer mehr, „stark“ nur vor klarem Gewinn, S18 Spielstärke aus der Genauigkeit, T4 Fallen aus Kapitel 2 und 3, in entschiedener Stellung „?!“ erst ab drei Bauern und kein „!“, 2 s Rechenzeit während der Partie; neue Regel 9 in CLAUDE.md: Empfehlungen gleich umsetzen); davor 0.2.50 Genauigkeit wie bei chess.com (Fable, Zweig `auswertung-chesscom`: Genauigkeit wie bei Lichess aus gewichtetem und harmonischem Mittel, „verpasst“ vor „patzer“, „bester“ nur der Zug der Engine, Platzhalter in der Zeile „Zeichen“ behoben; Rechentiefe war nicht die Ursache); davor 0.2.49 Endspieltrainer (Fable, Zweig `endspieltrainer`: 78 Buchstellungen aus Kapitel 8 und 9 mit Stockfish geprüft, gegen die Engine gewinnen oder Remis halten, Kippen erkannt, gestufte Hilfen); davor 0.2.48 Zielbilanz-Übung, Faktorenbilanz- und Repertoire-Trainer (Opus, AP 13, Buchstellungen und Zugfolgen der Kapitel 2 und 3, Lösung aus den Werkzeugen und dem Buch); davor 0.2.47 Empfehlungen vorab umgesetzt (Opus: S9 Rücknahme ungewertet, K5 kein „??“ bei klarem Gewinn, R3 „Geschätzte Spielstärke“, C8 kein Minderheitsangriff gegen vorgerückten Kandidaten, T1 gleich gute Engine-Züge in vier Übungen, U9 Wiederholung für Taktik und Falle; Widerspruch des Autors genügt); davor 0.2.46 Bots mit Persönlichkeit (Fable: blinde Flecken als Zugarten, die ein Gegner nicht sieht; 18 vorgefertigte Gegner mit eigener Fehlerliste und blinden Flecken; Stufen je Phase verborgen; blinde Flecken auch für eigene Gegner); davor 0.2.45 AP 13 Teil 3 (Opus): Taktiktrainer, „Falle oder Köder“ und Strukturerkenner auf Fables Trainerdaten, Hinweis „Nur dieser Zug“ bei Übungen, Empfehlungen zu allen offenen Rückfragen in `docs/AUFGABEN_AUTOR.md`; davor Lesart der Phase: Mittelspiel, sobald eine Seite entwickelt ist oder das Material ungleich ist; „Bauern entscheiden“ nur bei Freibauer oder wenig Material; Erklärung am Phasenwechsel im Rückblick (Befund S17: Abb. 11.4); davor 0.2.43 „M“ und „E“ in der Zugliste, Zusatzregel „Zug 15“ gestrichen; davor 0.2.42 Ergänzungen des Autors vom Abend (Fable: Wertung nur aus der Grundstellung, Wertung zurücksetzen, eigene Gegner mit Fehlerarten und Spielstil, Wertungskurve je Phase); davor 0.2.41 Spielen nach den Wünschen des Autors vom Nachmittag (Fable: zwölf vorgefertigte Gegner, Mensch gegen Mensch, Spielhilfen zuschaltbar, Partienkachel mit Ergebnis und Stärke beider Seiten, Wertung nach Elo mit Kurve in den Einstellungen, Zusatzregeln für die Phase, Stellungseditor); davor 0.2.40 Spielen nach den Ideen des Autors (Fable: Zugklassen wie bei chess.com, Phasen in Kurve und Spielstärke, Auswertung im Hintergrund, Stufe je Phase, Fehlerprofile je Phase); davor 0.2.39 Rückmeldung zum Nachtest bis N174 (Fable, Zweig `rueckmeldung-0.2.39`: Figurensätze, Nummernsprung, Werkzeugtexte, Rückblick-Karte mit Erklärung, „!“, Spielstärke, Eröffnung wählen) und die Trainerdaten (Fable, Zweig `trainerdaten`, zusammengeführt); davor 0.2.38 H Rückblick nach der Partie (Zweig `rueckblick`); 0.2.37 AP 13 Teil 1 und 2: Übungen des Buches lösen, Wiederholung, erste Trainer (Opus, Zweig `nacht-ap13`; davor 0.2.36 AP 11 Kalibrierung (Fable), 0.2.35 neuer Buchstand, 0.2.34 erster Stand im öffentlichen Repository `dobili/SvGa_Public`) · Nächstes: Nachtest N182 bis N200, Rückfragen U1 bis U11 in `docs/AUFGABEN_AUTOR.md`; Trainerdaten von Fable zusammenführen · Die ganze ältere Arbeitsgeschichte (Prüfhilfen, Berichte, Archiv) liegt im früheren privaten Repository des Autors
 
 Jede neue Sitzung liest zuerst `CLAUDE.md`, dann diese Datei, und macht beim Abschnitt
 „Nächster Schritt“ weiter.

diff --git a/docs/ENTSCHEIDUNGEN.md b/docs/ENTSCHEIDUNGEN.md
@@ -4061,3 +4061,15 @@ die das Skript nicht messen kann (Ringe als Verlauf oder Schatten), von Hand gep
 
 Vorlage mit Messwerten und Bildern vorher und nachher als privates Artifact (Bilder nicht im
 Repository). Freigabe des Autors am 19.10.2026: „Alles ja“. Testpunkte N483 bis N489.
+
+## App-Symbol knackiger (19.10.2026, Opus, Zweig `symbol-knackig`, Version 0.2.107)
+
+Rückmeldung des Autors mit Bildschirmfoto vom Startbildschirm: „Bekommen wir die Farben des Icons
+noch etwas knackiger?“ Ursachen: das weich gezeichnete Cover, das Rauschen der Verkleinerung auf
+256 Farben und ein halb deckender Rand, durch den die roten Figuren grau-rosa schimmerten.
+Verglichen wurden sieben Varianten auf einem dunkelblauen Startbildschirm in 180 und 60 Pixeln.
+Mehr Sättigung (1,35 bis 1,45) machte das Gold orange-rot; gewählt: Kontrast 1,2, Sättigung 1,1,
+leichte Schärfe (Laplace-Kern 0,6), Rand ab 45 % des Radius fast deckend in Navy (97 %). Die
+Symbole mit 180 und 192 Pixeln bleiben in voller Farbtiefe (je etwa 100 KB), nur die beiden 512er
+werden auf 256 Farben verkleinert (Android rechnet sie klein). Skript `skripte/erzeuge-appsymbol.mjs`.
+
